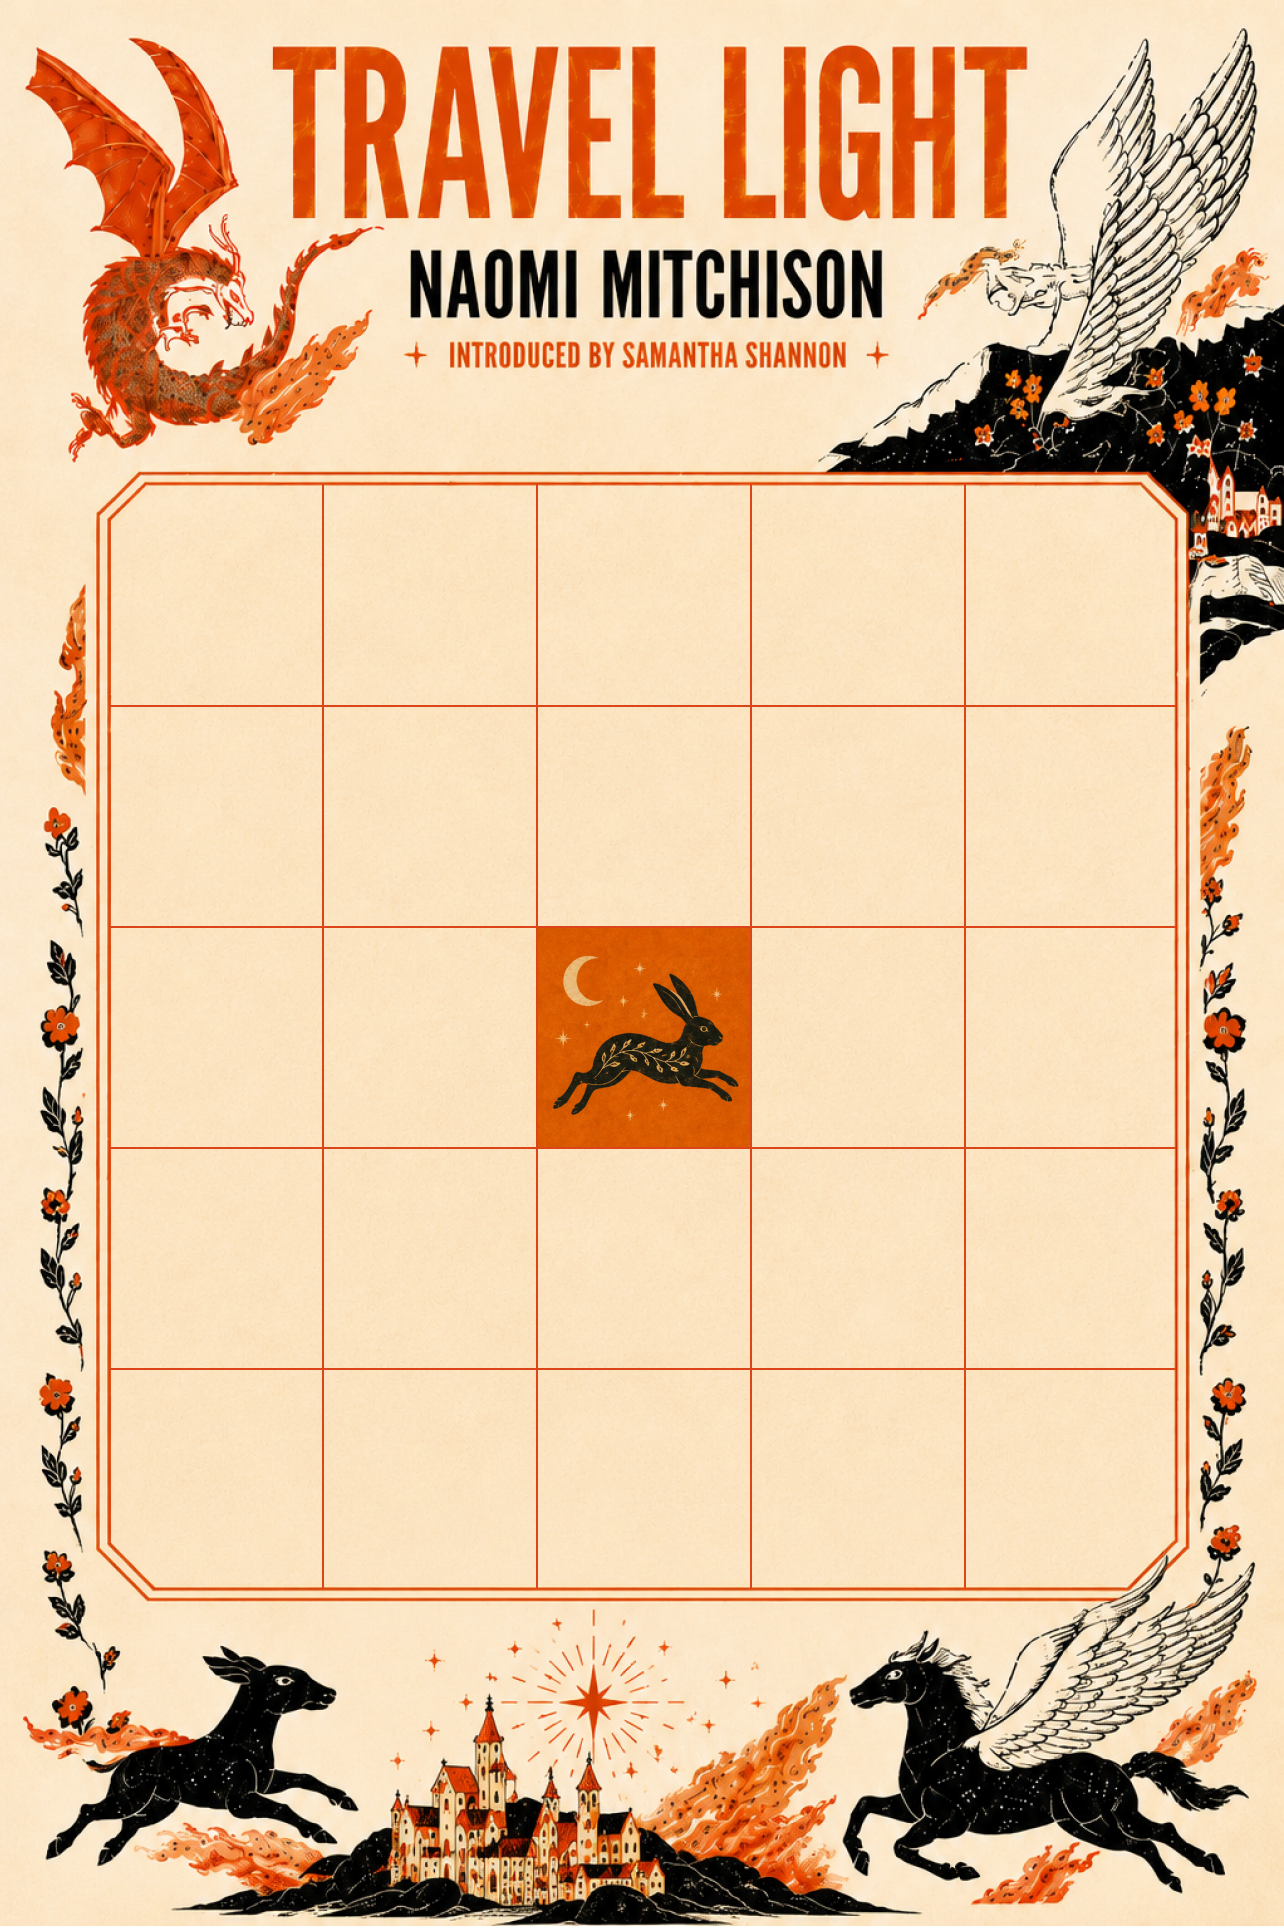
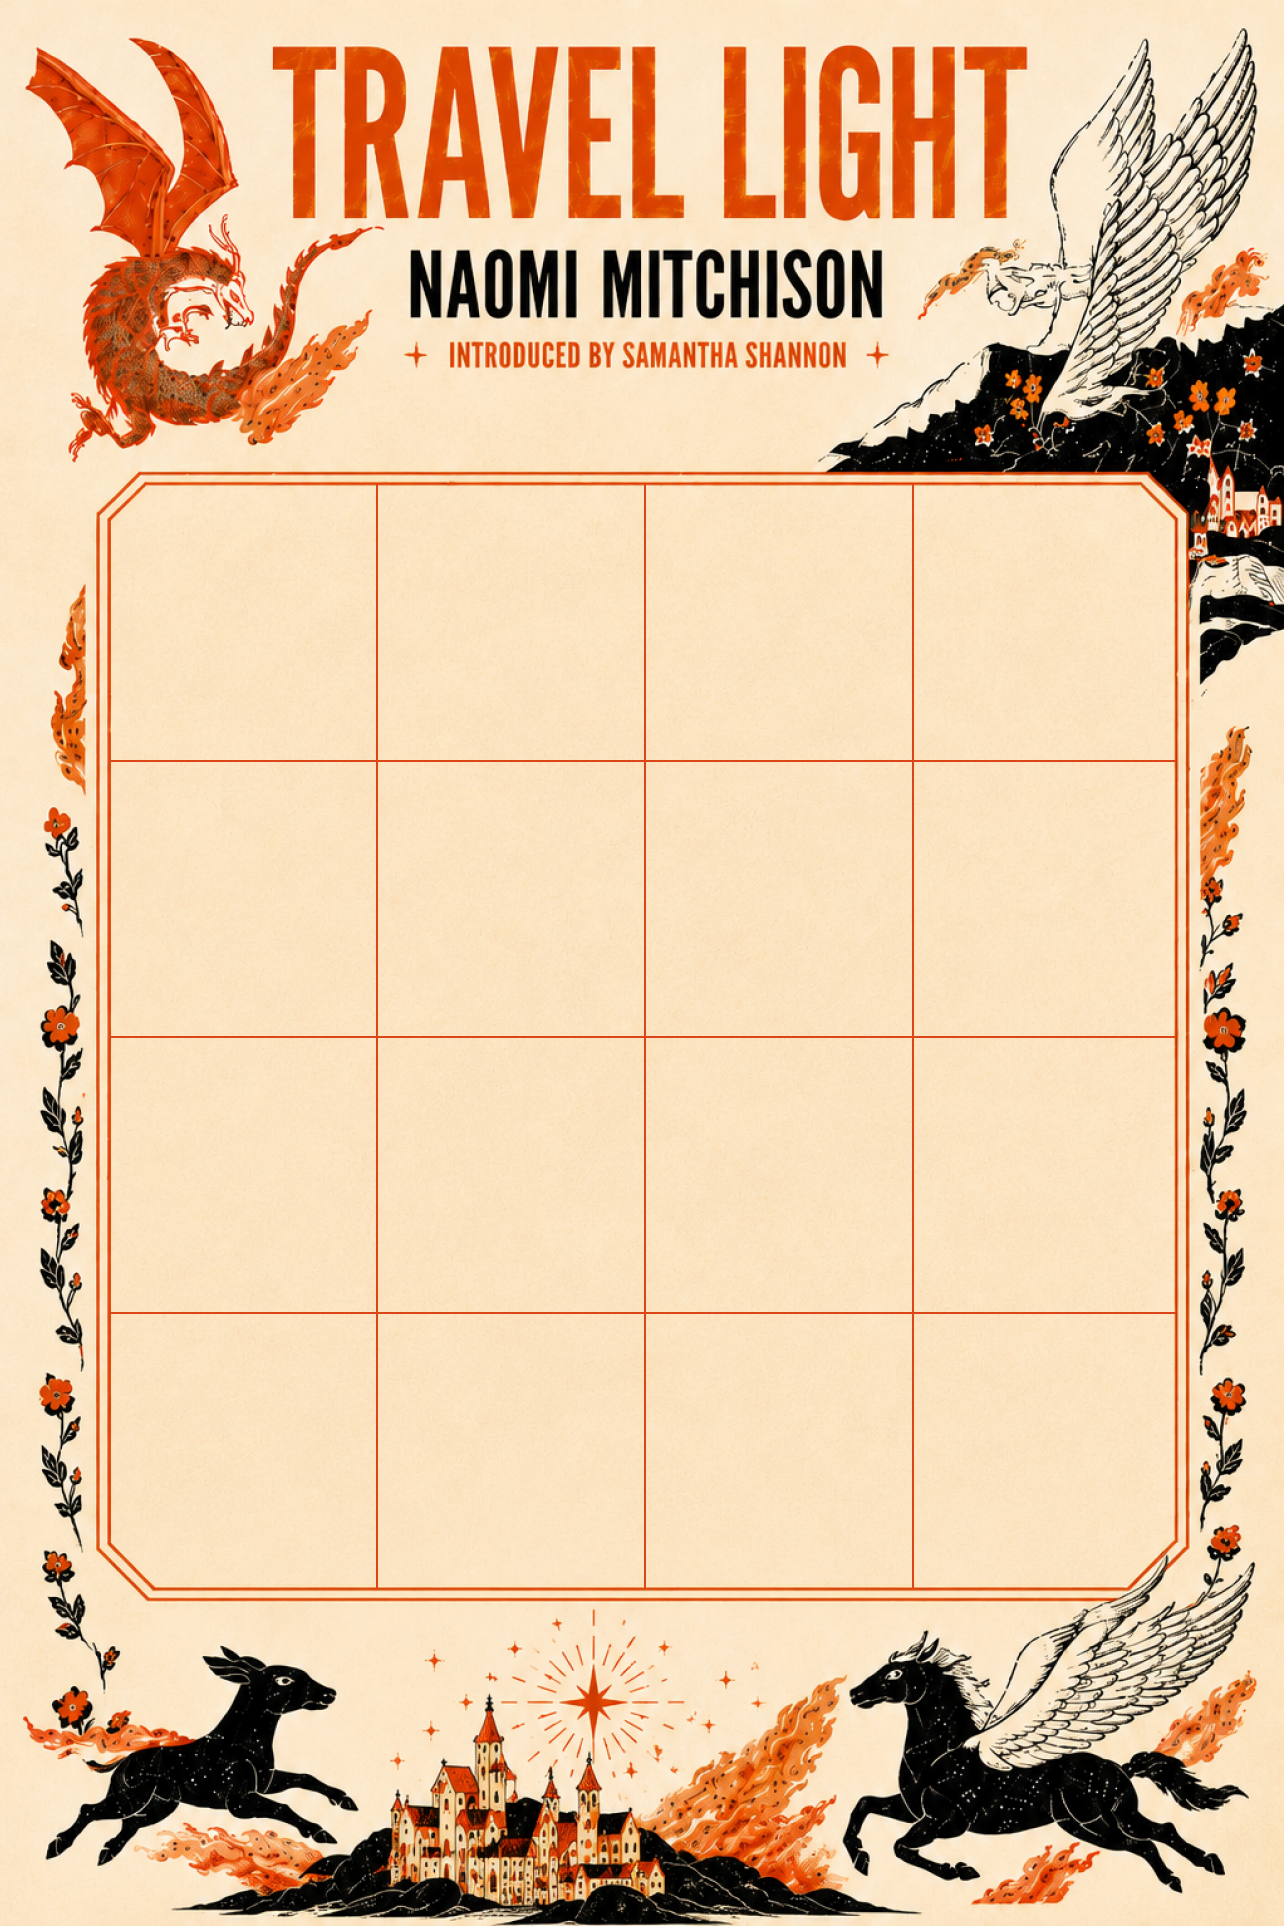
travel light 4x4

Changed region(s): [[0.405, 0.4666, 0.5919, 0.6221]]

diff --git a/travellight/travellight_player.html b/travellight/travellight_player.html
@@ -71,10 +71,10 @@ html,body{min-height:100vh;font-family:'IM Fell English',Georgia,serif;color:var
     width: 82.8%;
     height: 58%;
     display: grid;
-    grid-template-columns: repeat(5, 1fr);
-    grid-template-rows: repeat(5, 1fr);
+    grid-template-columns: repeat(4, 1fr);
+    grid-template-rows: repeat(4, 1fr);
 }
-.bingo-cell{aspect-ratio:1/1;display:flex;align-items:center;justify-content:center;font-size:clamp(7px,1.3vw,11px);
+.bingo-cell{display:flex;align-items:center;justify-content:center;font-size:clamp(7px,1.3vw,11px);
   line-height:1.2;text-align:center;padding:2px;overflow:hidden;cursor:pointer;transition:background 0.15s;border-radius:3px;}
 .bingo-cell.marked{background:var(--player-glow);box-shadow:inset 0 0 0 1px var(--player);}
 .bingo-cell.free{font-weight:600;color:var(--gold);cursor:default;}
@@ -366,7 +366,7 @@ const ROOMS = [
 ];
 const MAX_CH = 19;
 
-const GRID_SIZE = 25;
+const GRID_SIZE = 16;   // 4×4 — no free square
 
 /* ── PASSWORD GATE ── */
 const initialLockModal = document.getElementById('initialLockModal');
@@ -391,7 +391,7 @@ initialPasswordInput.addEventListener('keydown', e => { if (e.key === 'Enter') c
 
 /* ── BINGO ── */
 let cells = Array(GRID_SIZE).fill('');
-let markedSet = new Set([12]);
+let markedSet = new Set();
 let isEditMode = false, isSaving = false;
 
 const bingoGrid = document.getElementById('bingoGrid'),
@@ -409,20 +409,17 @@ editBtn.addEventListener('click', () => {
 
 function countLines(){
   let lines=0;
-  for(let r=0;r<5;r++)if([0,1,2,3,4].every(c=>markedSet.has(r*5+c)))lines++;
-  for(let c=0;c<5;c++)if([0,1,2,3,4].every(r=>markedSet.has(r*5+c)))lines++;
-  if([0,1,2,3,4].every(i=>markedSet.has(i*5+i)))lines++;
-  if([0,1,2,3,4].every(i=>markedSet.has(i*5+(4-i))))lines++;
+  for(let r=0;r<4;r++)if([0,1,2,3].every(c=>markedSet.has(r*4+c)))lines++;
+  for(let c=0;c<4;c++)if([0,1,2,3].every(r=>markedSet.has(r*4+c)))lines++;
+  if([0,1,2,3].every(i=>markedSet.has(i*4+i)))lines++;
+  if([0,1,2,3].every(i=>markedSet.has(i*4+(3-i))))lines++;
   return lines;
 }
 function calcPoints(){
-  let cellCount=0;
-  markedSet.forEach(i=>{if(i!==12)cellCount++;});
-  return cellCount*POINTS_PER_CELL+countLines()*POINTS_PER_LINE;
+  return markedSet.size*POINTS_PER_CELL+countLines()*POINTS_PER_LINE;
 }
 function renderPoints(){
-  let cellCount=0;
-  markedSet.forEach(i=>{if(i!==12)cellCount++;});
+  const cellCount=markedSet.size;
   const lines=countLines();
   document.getElementById('ptsTotal').textContent=calcPoints();
   document.getElementById('ptsBreak').textContent=
@@ -432,12 +429,9 @@ function renderPoints(){
 function renderBingo() {
   bingoGrid.innerHTML = '';
   for (let i = 0; i < GRID_SIZE; i++) {
-    const isFree = i === 12;
     const cell = document.createElement('div');
-    cell.className = 'bingo-cell' + (isFree ? ' free' : markedSet.has(i) ? ' marked' : '');
-    if (isFree) {
-      cell.style.cursor = 'default';
-    } else if (isEditMode) {
+    cell.className = 'bingo-cell' + (markedSet.has(i) ? ' marked' : '');
+    if (isEditMode) {
       const ta = document.createElement('textarea');
       ta.value = cells[i];
       ta.addEventListener('input', e => { cells[i] = e.target.value; });
@@ -486,8 +480,7 @@ async function loadBingo() {
       const data = d.data();
       if (Array.isArray(data.cells))  cells = data.cells;
       if (Array.isArray(data.marked)) {
-        markedSet = new Set(data.marked.filter(v=>typeof v==='number'&&Number.isInteger(v)&&v>=0&&v<=24));
-        markedSet.add(12);
+        markedSet = new Set(data.marked.filter(v=>typeof v==='number'&&Number.isInteger(v)&&v>=0&&v<=15));
       }
     }
   } catch(e) { console.error(e); }
